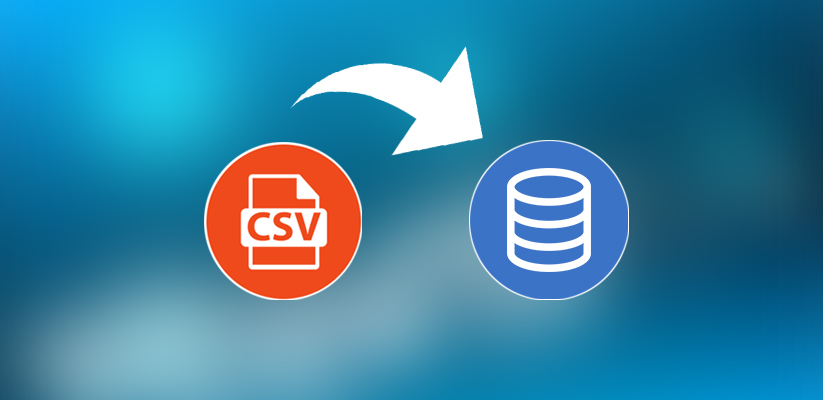
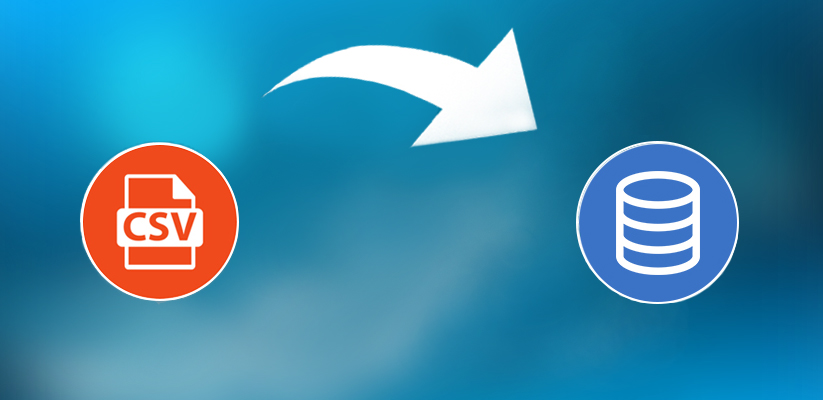
Fixed csvToDB.jpg image and started saveAsJSON function.

diff --git a/View/dist/index.html b/View/dist/index.html
@@ -69,14 +69,14 @@
             </button>
             <div class="dropdown-content">
               <button onclick="saveAsPDF();">PDF</button>
-              <button>JSON</button>
+              <button onclick="saveAsJSON();">JSON</button>
             </div>
           </div>
 
           <script>
               function onFiltersChanged(){
                 var element = document.querySelector('input[name="filter"]:checked');
-                  requestChangeFilters(data => chartController.updateData(data), element.id, "<?php $this->get('url')?>Cardholders.php");
+                requestChangeFilters(data => chartController.updateData(data), element.id, "<?php $this->get('url')?>Cardholders.php");
               }
               onFiltersChanged();
 
@@ -88,6 +88,38 @@
                 doc.save('Statistics_' + sortBy + '.pdf');
                 })
                }
+
+              function encode( s ) {
+                var out = [];
+                for ( var i = 0; i < s.length; i++ ) {
+                  out[i] = s.charCodeAt(i);
+                }
+                return new Uint8Array( out );
+              }
+
+              function saveAsJSON() {
+                // TODO: get data from php
+                // var data = encode( JSON.stringify(dataFromPHP));
+                var data = encode( JSON.stringify({
+                  name: 'Example object',
+                  child: {
+                    name: 'Nested thing'
+                  }
+                }, null, 4) );
+
+                var blob = new Blob( [ data ], {
+                  type: 'application/octet-stream'
+                });
+
+                url = URL.createObjectURL( blob );
+                var link = document.createElement( 'a' );
+                link.setAttribute( 'href', url );
+                link.setAttribute( 'download', 'example.json' );
+                var event = document.createEvent( 'MouseEvents' );
+                event.initMouseEvent( 'click', true, true, window, 1, 0, 0, 0, 0, false, false, false, false, 0, null);
+                link.dispatchEvent( event );
+              }
+
           </script>
         </div>
 			</div>
